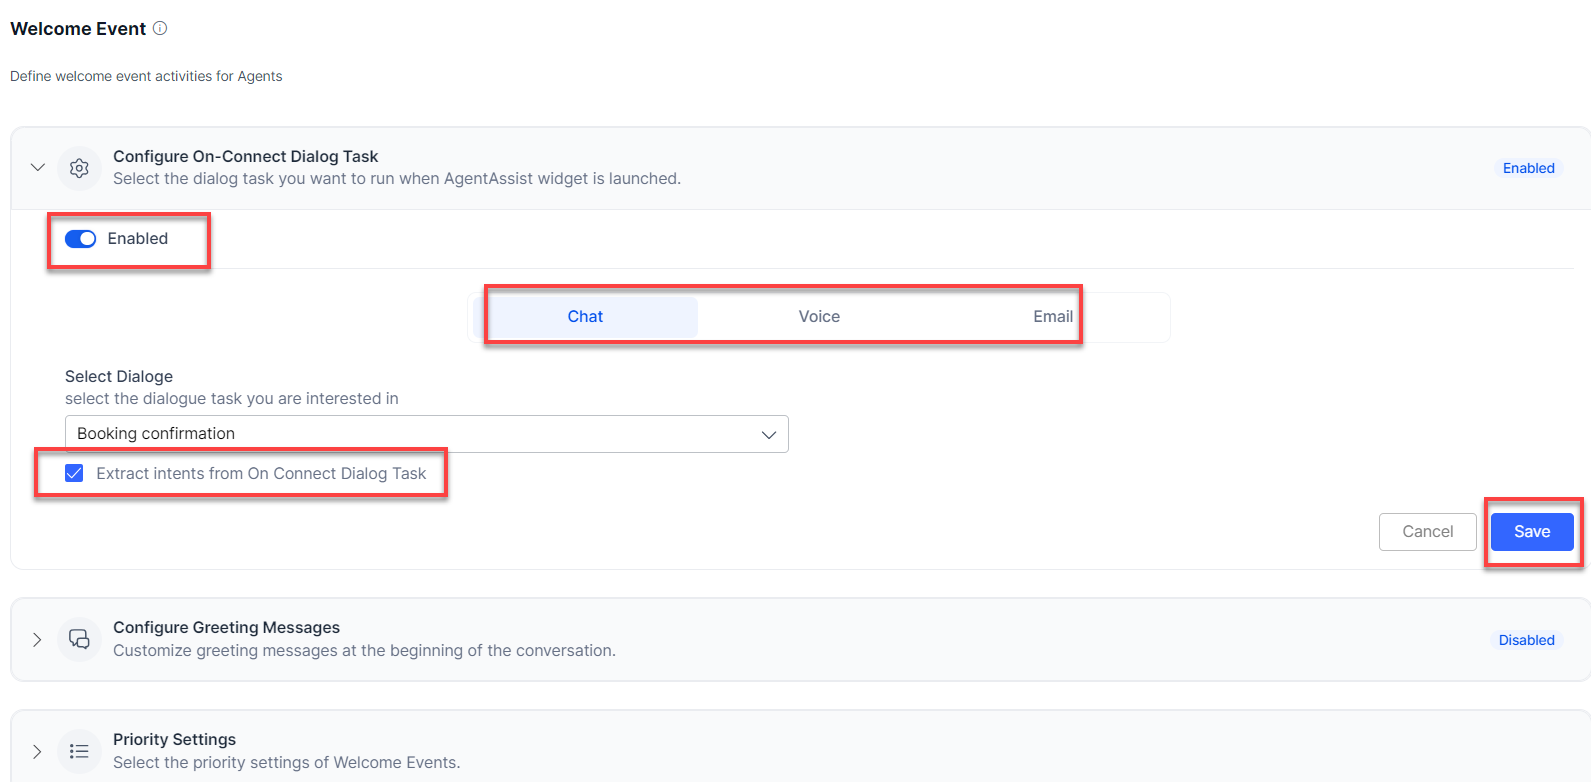
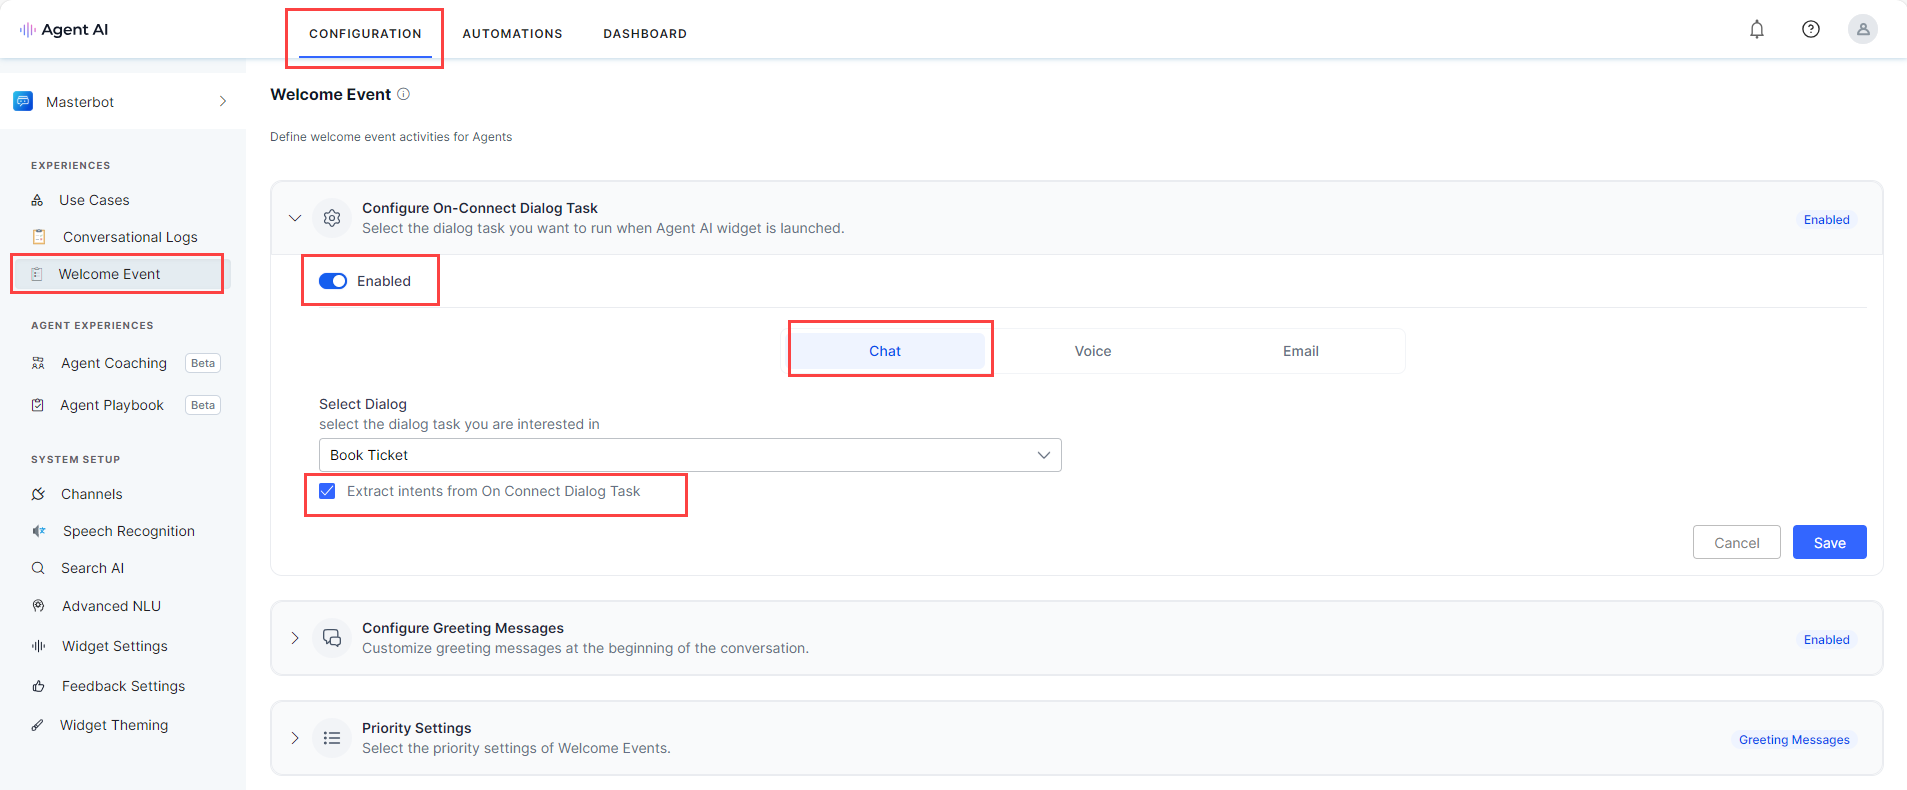
updating the welcome events doc

diff --git a/docs/xo/agentai/configuration/welcome-events.md b/docs/xo/agentai/configuration/welcome-events.md
@@ -1,8 +1,8 @@
-Welcome Events are pre-configured messages or prompts that are automatically triggered when a conversation is assigned to an agent in the AgentAssist platform. Welcome Events guide agents to handle inquiries effectively by streamlining workflows, lowering their Average Handle Times (AHT), reducing repetition, and contributing to enhanced customer satisfaction.
+Welcome Events are pre-configured messages or prompts that are automatically triggered when a conversation is assigned to an agent in the Agent AI widget. Welcome Events guide agents to handle inquiries effectively by streamlining workflows, lowering their Average Handle Times (AHT), reducing repetition, and contributing to enhanced customer satisfaction.
 
 Managers can configure Welcome Events to provide consistent and relevant information to agents at the start of a conversation. These events can be used for chat, voice, and email interactions.
 
-On the Welcome Events page, you can configure the welcome experience when the AgentAssist widget is launched by defining the Welcome Event activities for agents. It has three sections:
+On the Welcome Events page, you can configure the welcome experience when the Agent AI widget is launched by defining the Welcome Event activities for agents. It has three sections:
 
 * Configure On-Connect Dialog Task
 * Configure Greeting Messages
@@ -10,23 +10,29 @@ On the Welcome Events page, you can configure the welcome experience when the Ag
 
 ### Configure On-Connect Dialog Task
 
-In this section, you can select a pre-configured dialog task and channel and choose to extract intents from the selected dialog task when the AgentAssist widget is launched.
+In this section, you can select a pre-configured dialog task and channel and choose to extract intents from the selected dialog task when the Agent AI widget is launched.
 
 #### Steps to Configure the On-Connect Dialog Task
 
 1. Sign in to **XO Platform**.
-2. Click **CONFIGURATION** > **Welcome Events**.
-3. Click to expand the **Configure On-Connect Dialog Task** section.
-4. Click the **toggle** button to enable it (if it’s in **Disabled** status).
-5. Select a channel – **Chat**, **Voice**, or **Email**.
-6. Select a configured dialog task from the **Select Dialog** list.
-7. Select the **Extract intents from On-Connect Dialog task** radio button.
-8. Click **Save**.
+2. Click **Product Switcher** > **Agent AI**.  
+   <img src="../welcome-events-images/select-agent-ai.png" alt="select-agent-ai" title="select-agent-ai" style="border: 1px solid gray; zoom:80%;">
+3. Click the **Agent AI** icon from the left menu.
+4. Click **CONFIGURATION** > **Welcome Events**.
+5. Click to expand the **Configure On-Connect Dialog Task** section.
+6. Click the **toggle** button to enable it (if it’s in **Disabled** status).
+7. Select a channel – **Chat**, **Voice**, or **Email**.
+8. Select a configured dialog task from the **Select Dialog** list.
+9. Select the **Extract intents from On Connect Dialog task** radio button.  
+!!! note
+
+    When enabled, the system terminates the current dialog and uses the message node's content to identify the Next Best Actions (suggestions) upon encountering it. Ensure the dialog flow contains only one message node, preferably at the end.
+10. Click **Save**.  
    <img src="../welcome-events-images/configure-on-connect-dialog-task-1.png" alt="configure-on-connect-dialog-task" title="configure-on-connect-dialog-task" style="border: 1px solid gray; zoom:80%;">
 
 ### Configure Greeting Messages
 
-In this section, you can customize greeting messages at the beginning of the conversation. Also, you can add new greeting messages and copy existing greeting messages for agents to use when communicating with customers through the AgentAssist widget. You can edit, delete, enable, or disable existing messages.
+In this section, you can customize greeting messages at the beginning of the conversation. Also, you can add new greeting messages and copy existing greeting messages for agents to use when communicating with customers through the Agent AI widget. You can edit, delete, enable, or disable existing messages.
 
 #### Steps to Configure Greeting Messages
 
@@ -34,15 +40,17 @@ In this section, you can customize greeting messages at the beginning of the con
 2. Click to expand the **Configure Greeting Messages** section.
 3. Click the **toggle** button to enable it (if it’s in **Disabled** status).
 4. Select a channel – **Chat**,**Voice**, or **Email**.
-5. Click **+ Add Message** > **New Messages** to add a new greeting message.
+5. Click **+ Add Message** > **New Messages** to add a new greeting message.  
    <img src="../welcome-events-images/adding-new-greeting-messages-2.png" alt="adding-new-greeting-messages" title="adding-new-greeting-messages" style="border: 1px solid gray; zoom:80%;"> 
-6. Enter the new greeting message in the **Message** box and click **Add**.
+6. Enter the new greeting message in the **Message** box and click **Add**.  
    <img src="../welcome-events-images/configure-and-add-new-greeting-message-3.png" alt="configure-and-add-new-greeting-message" title="configure-and-add-new-greeting-message" style="border: 1px solid gray; zoom:60%;">
 
       The new greeting message gets added to the list of existing messages.
 
 7. Click **Copy from Chat** to copy existing messages in **Chat**.  
-**Note** : **Copy from Voice** appears for the Chat channel and **Copy from Chat** appears for the Voice channel.  
+!!! note
+    
+    **Copy from Voice** appears for the Chat channel and **Copy from Chat** appears for the Voice channel.  
     <img src="../welcome-events-images/copying-from-chat-messages-4.png" alt="copying-from-chat-messages" title="copying-from-chat-messages" style="border: 1px solid gray; zoom:80%;">
       
       a. Select the **Welcome Messages** button to select all the existing messages or select individual messages one by one.
@@ -68,6 +76,6 @@ In this section, you can select what to run first between the dialog tasks and g
 
 1. Click **CONFIGURATION** > **Welcome Events**.
 2. Click to expand the **Priority Settings** section.
-3. Select the radio button **On-Connect Dialog Task** or **Greeting Messages**
+3. Select the radio button **On-Connect Dialog Task** or **Greeting Messages**  
    <img src="../welcome-events-images/priority-settings-6.png" alt="priority-settings" title="priority-settings" style="border: 1px solid gray; zoom:80%;">  
 4. Click **Save**.
